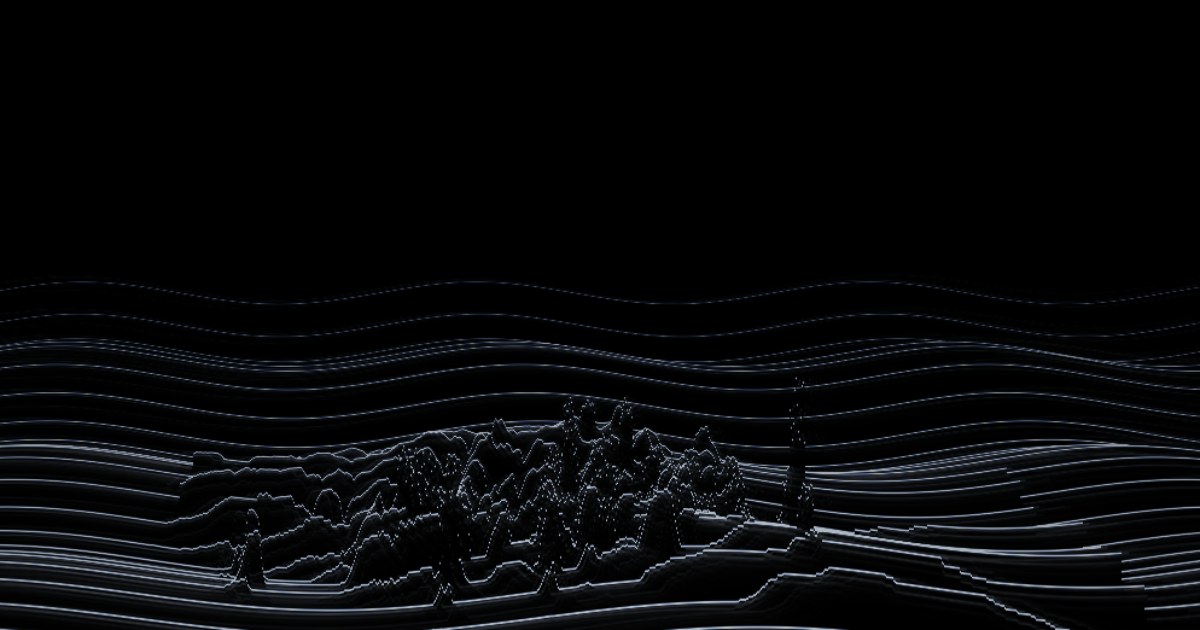
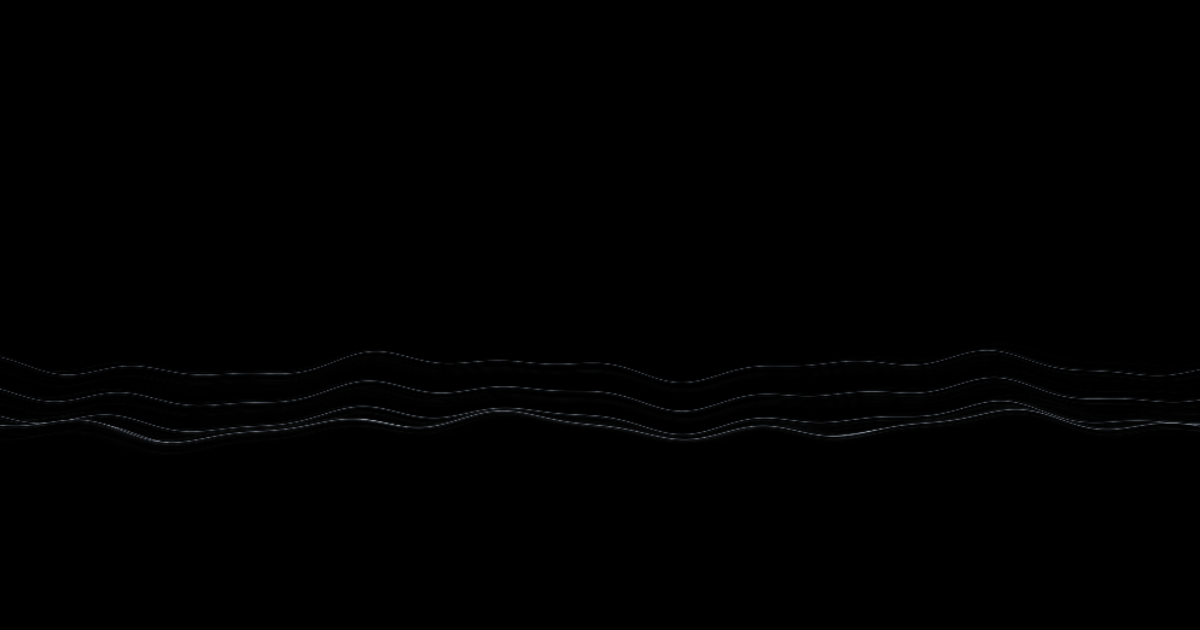
build: radio1965 rows

Changed region(s): [[0.0, 0.5127, 1.0, 1.0], [0.8325, 0.9651, 0.8942, 1.0]]

diff --git a/workers/view/public/radio1965/index.html b/workers/view/public/radio1965/index.html
@@ -131,7 +131,8 @@
     if (ev?.of !== 'state') return;
     state = ev.s; stateAt = performance.now();
     const n = (state.listeners?.now ?? 0) + (state.ears ?? 0);
-    target.rows = clamp('rows', 16 + 12 * n);
+    // a full landscape with nobody listening, denser with each listener
+    target.rows = clamp('rows', 40 + 8 * n);
     // a dry scene still a landscape: height 2.5 at dry, 8 at the wettest (0.5 squeezed the lines into a band)
     if (Number.isFinite(state.wet)) target.ampM = clamp('ampM', 2.5 + 5.5 * (state.wet / 0.95));
     target.swellY = clamp('swellY', 0.05 * Math.min(1, (state.droneLevel ?? 0) / 0.5));
